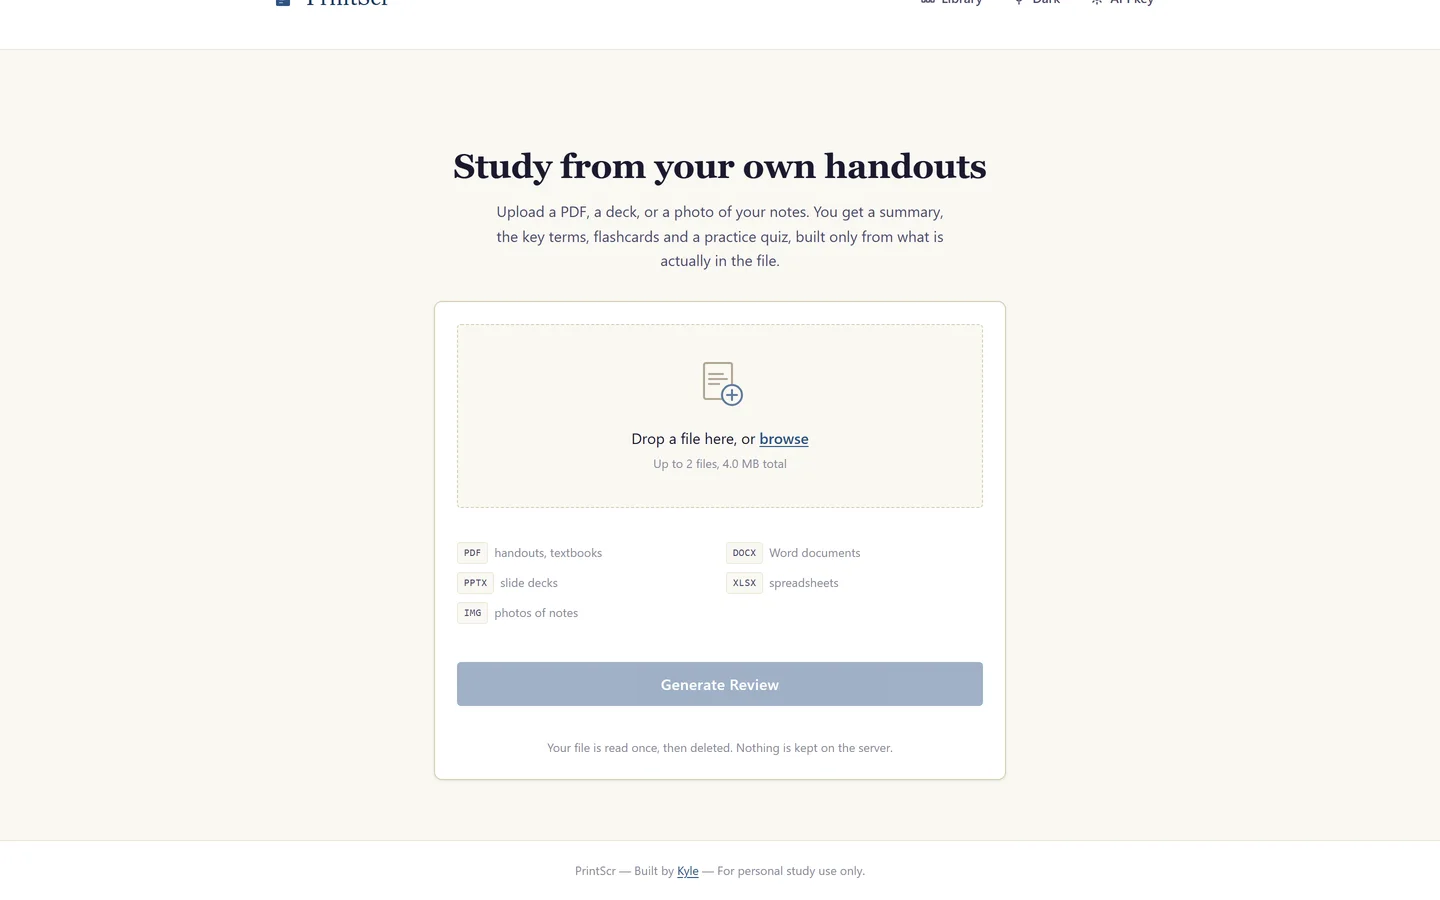
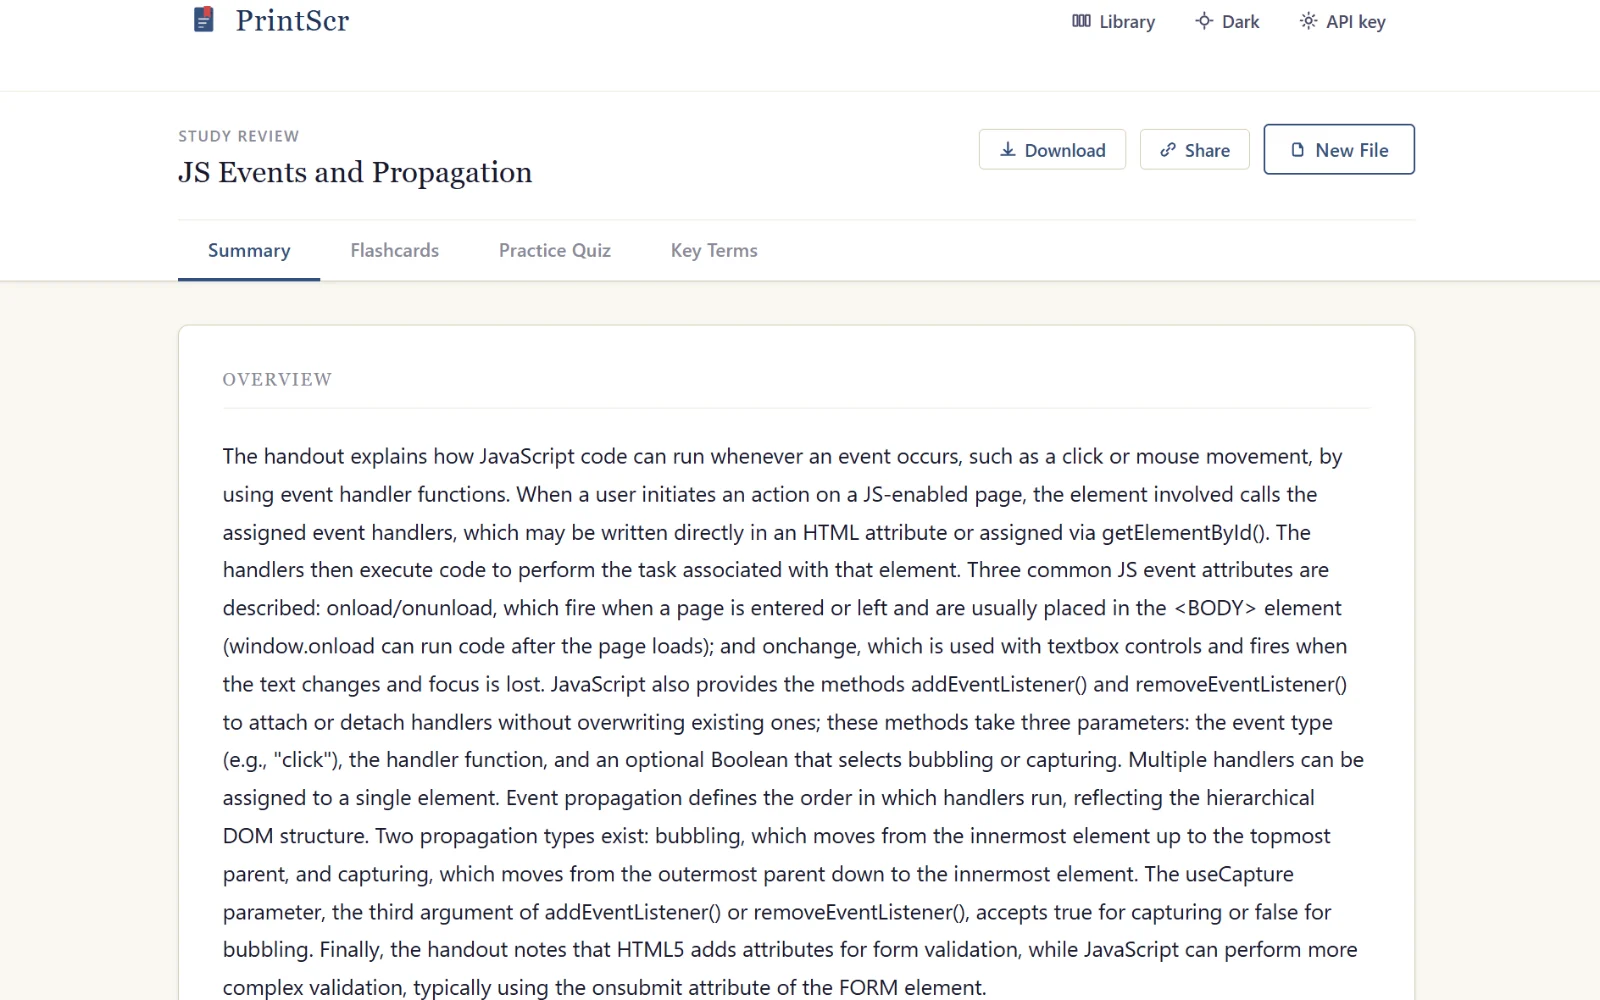
feat: real app screenshots, centered gallery arrows, hover motion
Swap in proper screenshots: Studs now shows four app views (dashboard,
a class, the grade report, creating a class) instead of just the login,
and PrintScr shows the upload, a generated review and the flashcards.
Wide app shots are cropped to the 16:10 frame — left-anchored for Studs so
the sidebar survives, centred for PrintScr.

Move the carousel arrows and counter inside the image stage so they centre
on the picture instead of sitting low, and stop the invisible arrows from
eating clicks meant for the image.

Fix the write-up: the project grid was centre-aligned, so opening the
write-up grew the row and pushed the image down. Align to the top so the
image stays put. Add hover motion across the cards and shots — a small
lift on tool, now and review cards and the shot frames, and a gentle zoom
on the screenshot itself, all disabled under reduced-motion.

diff --git a/index.html b/index.html
@@ -191,11 +191,10 @@
       <article class="proj rise">
         <div class="proj-media"><div class="shotframe" data-gallery>
     <div class="chrome" aria-hidden="true"><span></span><span></span><span></span></div>
-    <div class="shot-stage"><figure class="shot-slide on"><img src="/img/planora-1.webp" width="1440" height="900" alt="Planora landing page" loading="lazy" decoding="async"></figure><figure class="shot-slide"><img src="/img/planora-2.webp" width="1440" height="900" alt="Planora feature overview" loading="lazy" decoding="async"></figure><figure class="shot-slide"><img src="/img/planora-3.webp" width="1440" height="900" alt="Planora app preview" loading="lazy" decoding="async"></figure></div>
-    <button type="button" class="shot-nav prev" data-prev aria-label="Previous image">&lsaquo;</button>
+    <div class="shot-stage"><figure class="shot-slide on"><img src="/img/planora-1.webp" width="1440" height="900" alt="Planora landing page" loading="lazy" decoding="async"></figure><figure class="shot-slide"><img src="/img/planora-2.webp" width="1440" height="900" alt="Planora feature overview" loading="lazy" decoding="async"></figure><figure class="shot-slide"><img src="/img/planora-3.webp" width="1440" height="900" alt="Planora app preview" loading="lazy" decoding="async"></figure><button type="button" class="shot-nav prev" data-prev aria-label="Previous image">&lsaquo;</button>
     <button type="button" class="shot-nav next" data-next aria-label="Next image">&rsaquo;</button>
     <p class="shot-count" data-count>1 / 3</p>
-    <div class="shot-dots"><button type="button" class="shot-dot on" data-dot="0" aria-label="Image 1 of 3"></button><button type="button" class="shot-dot" data-dot="1" aria-label="Image 2 of 3"></button><button type="button" class="shot-dot" data-dot="2" aria-label="Image 3 of 3"></button></div>
+    <div class="shot-dots"><button type="button" class="shot-dot on" data-dot="0" aria-label="Image 1 of 3"></button><button type="button" class="shot-dot" data-dot="1" aria-label="Image 2 of 3"></button><button type="button" class="shot-dot" data-dot="2" aria-label="Image 3 of 3"></button></div></div>
   </div></div>
         <div class="proj-body">
           <div class="proj-head">
@@ -219,11 +218,10 @@
       </article><article class="proj rise">
         <div class="proj-media"><div class="shotframe" data-gallery>
     <div class="chrome" aria-hidden="true"><span></span><span></span><span></span></div>
-    <div class="shot-stage"><figure class="shot-slide on"><img src="/img/printscr-1.webp" width="1440" height="900" alt="PrintScr upload screen" loading="lazy" decoding="async"></figure><figure class="shot-slide"><img src="/img/printscr-2.webp" width="1440" height="900" alt="PrintScr turning a file into a reviewer" loading="lazy" decoding="async"></figure></div>
-    <button type="button" class="shot-nav prev" data-prev aria-label="Previous image">&lsaquo;</button>
+    <div class="shot-stage"><figure class="shot-slide on"><img src="/img/printscr-1.webp" width="1600" height="1000" alt="PrintScr upload screen" loading="lazy" decoding="async"></figure><figure class="shot-slide"><img src="/img/printscr-2.webp" width="1600" height="1000" alt="A generated study review, with the summary open" loading="lazy" decoding="async"></figure><figure class="shot-slide"><img src="/img/printscr-3.webp" width="1600" height="1000" alt="Flashcards generated from the uploaded file" loading="lazy" decoding="async"></figure><button type="button" class="shot-nav prev" data-prev aria-label="Previous image">&lsaquo;</button>
     <button type="button" class="shot-nav next" data-next aria-label="Next image">&rsaquo;</button>
-    <p class="shot-count" data-count>1 / 2</p>
-    <div class="shot-dots"><button type="button" class="shot-dot on" data-dot="0" aria-label="Image 1 of 2"></button><button type="button" class="shot-dot" data-dot="1" aria-label="Image 2 of 2"></button></div>
+    <p class="shot-count" data-count>1 / 3</p>
+    <div class="shot-dots"><button type="button" class="shot-dot on" data-dot="0" aria-label="Image 1 of 3"></button><button type="button" class="shot-dot" data-dot="1" aria-label="Image 2 of 3"></button><button type="button" class="shot-dot" data-dot="2" aria-label="Image 3 of 3"></button></div></div>
   </div></div>
         <div class="proj-body">
           <div class="proj-head">
@@ -245,10 +243,12 @@
           </div>
         </div>
       </article><article class="proj rise">
-        <div class="proj-media"><div class="shotframe">
+        <div class="proj-media"><div class="shotframe" data-gallery>
     <div class="chrome" aria-hidden="true"><span></span><span></span><span></span></div>
-    <div class="shot-stage"><figure class="shot-slide on"><img src="/img/studs-1.webp" width="1440" height="900" alt="Studs running in the browser" loading="lazy" decoding="async"></figure></div>
-    
+    <div class="shot-stage"><figure class="shot-slide on"><img src="/img/studs-1.webp" width="1600" height="1000" alt="The Studs teacher dashboard" loading="lazy" decoding="async"></figure><figure class="shot-slide"><img src="/img/studs-2.webp" width="1600" height="1000" alt="A class overview with its grading settings" loading="lazy" decoding="async"></figure><figure class="shot-slide"><img src="/img/studs-3.webp" width="1600" height="1000" alt="The class grade report" loading="lazy" decoding="async"></figure><figure class="shot-slide"><img src="/img/studs-4.webp" width="1600" height="1000" alt="Creating a class" loading="lazy" decoding="async"></figure><button type="button" class="shot-nav prev" data-prev aria-label="Previous image">&lsaquo;</button>
+    <button type="button" class="shot-nav next" data-next aria-label="Next image">&rsaquo;</button>
+    <p class="shot-count" data-count>1 / 4</p>
+    <div class="shot-dots"><button type="button" class="shot-dot on" data-dot="0" aria-label="Image 1 of 4"></button><button type="button" class="shot-dot" data-dot="1" aria-label="Image 2 of 4"></button><button type="button" class="shot-dot" data-dot="2" aria-label="Image 3 of 4"></button><button type="button" class="shot-dot" data-dot="3" aria-label="Image 4 of 4"></button></div></div>
   </div></div>
         <div class="proj-body">
           <div class="proj-head">
@@ -389,11 +389,10 @@
       web work, and neither is on GitHub yet.</p>
     <div class="tool-shot"><div class="shotframe" data-gallery>
     <div class="chrome" aria-hidden="true"><span></span><span></span><span></span></div>
-    <div class="shot-stage"><figure class="shot-slide on"><img src="/img/cybernant-1.webp" width="1280" height="835" alt="Cybernant running in a terminal, analysing a phone number" loading="lazy" decoding="async"></figure><figure class="shot-slide"><img src="/img/nightshade-1.webp" width="1280" height="784" alt="Nightshade, the offensive counterpart, showing its engagement menu" loading="lazy" decoding="async"></figure></div>
-    <button type="button" class="shot-nav prev" data-prev aria-label="Previous image">&lsaquo;</button>
+    <div class="shot-stage"><figure class="shot-slide on"><img src="/img/cybernant-1.webp" width="1280" height="835" alt="Cybernant running in a terminal, analysing a phone number" loading="lazy" decoding="async"></figure><figure class="shot-slide"><img src="/img/nightshade-1.webp" width="1280" height="784" alt="Nightshade, the offensive counterpart, showing its engagement menu" loading="lazy" decoding="async"></figure><button type="button" class="shot-nav prev" data-prev aria-label="Previous image">&lsaquo;</button>
     <button type="button" class="shot-nav next" data-next aria-label="Next image">&rsaquo;</button>
     <p class="shot-count" data-count>1 / 2</p>
-    <div class="shot-dots"><button type="button" class="shot-dot on" data-dot="0" aria-label="Image 1 of 2"></button><button type="button" class="shot-dot" data-dot="1" aria-label="Image 2 of 2"></button></div>
+    <div class="shot-dots"><button type="button" class="shot-dot on" data-dot="0" aria-label="Image 1 of 2"></button><button type="button" class="shot-dot" data-dot="1" aria-label="Image 2 of 2"></button></div></div>
   </div></div>
     <div class="tools">
       <article class="tool rise">

diff --git a/src/style.css b/src/style.css
@@ -622,7 +622,7 @@ img {
 }
 .shot-nav {
   position: absolute;
-  top: calc(50% + 14px);
+  top: 50%;
   transform: translateY(-50%);
   width: 34px;
   height: 34px;
@@ -637,11 +637,19 @@ img {
   line-height: 1;
   cursor: pointer;
   opacity: 0;
-  transition: opacity 0.2s var(--ease), background 0.2s var(--ease);
+  pointer-events: none;
+  transition:
+    opacity 0.2s var(--ease),
+    background 0.2s var(--ease),
+    transform 0.2s var(--ease);
 }
 .shotframe:hover .shot-nav,
 .shotframe:focus-within .shot-nav {
   opacity: 1;
+  pointer-events: auto;
+}
+.shot-nav:active {
+  transform: translateY(-50%) scale(0.9);
 }
 .shot-nav.prev {
   left: 0.6rem;
@@ -654,7 +662,7 @@ img {
 }
 .shot-count {
   position: absolute;
-  top: calc(0.5rem + 28px);
+  top: 0.6rem;
   right: 0.6rem;
   font-family: var(--f-mono);
   font-size: 11px;
@@ -695,6 +703,57 @@ img {
 .tool-shot {
   margin: 1.4rem auto 0;
   max-width: 640px;
+}
+
+.tool,
+.card,
+.rec {
+  transition:
+    border-color 0.2s var(--ease),
+    transform 0.28s var(--spring),
+    box-shadow 0.28s var(--ease);
+}
+.tool:hover,
+.card:hover,
+.rec:hover {
+  transform: translateY(-2px);
+  border-color: var(--line-2);
+  box-shadow: 0 14px 34px -26px rgb(0 0 0 / 0.7);
+}
+.shotframe {
+  transition:
+    transform 0.3s var(--spring),
+    box-shadow 0.3s var(--ease),
+    border-color 0.2s var(--ease);
+}
+.proj-media:hover .shotframe,
+.tool-shot:hover .shotframe {
+  transform: translateY(-3px);
+  border-color: var(--line-2);
+  box-shadow: 0 20px 44px -26px rgb(0 0 0 / 0.72);
+}
+.shot-slide img {
+  transition: transform 0.5s var(--ease);
+}
+.shotframe:hover .shot-slide.on img {
+  transform: scale(1.035);
+}
+@media (prefers-reduced-motion: reduce) {
+  .tool,
+  .card,
+  .rec,
+  .shotframe,
+  .shot-slide img {
+    transition: none;
+  }
+  .tool:hover,
+  .card:hover,
+  .rec:hover,
+  .proj-media:hover .shotframe,
+  .tool-shot:hover .shotframe,
+  .shotframe:hover .shot-slide.on img {
+    transform: none;
+  }
 }
 
 .lightbox {
@@ -1605,7 +1664,7 @@ html:not(.js) .rot-item {
   .proj {
     grid-template-columns: 1.05fr 1fr;
     gap: 2.25rem;
-    align-items: center;
+    align-items: start;
   }
   .proj:nth-child(even) .proj-media {
     order: 2;

diff --git a/src/data/projects.js b/src/data/projects.js
@@ -44,8 +44,9 @@ export const projects = [
     ],
     kind: "web",
     shots: [
-      { src: "/img/printscr-1.webp", alt: "PrintScr upload screen", width: 1440, height: 900 },
-      { src: "/img/printscr-2.webp", alt: "PrintScr turning a file into a reviewer", width: 1440, height: 900 },
+      { src: "/img/printscr-1.webp", alt: "PrintScr upload screen", width: 1600, height: 1000 },
+      { src: "/img/printscr-2.webp", alt: "A generated study review, with the summary open", width: 1600, height: 1000 },
+      { src: "/img/printscr-3.webp", alt: "Flashcards generated from the uploaded file", width: 1600, height: 1000 },
     ],
     study: {
       problem:
@@ -72,7 +73,10 @@ export const projects = [
     ],
     kind: "web",
     shots: [
-      { src: "/img/studs-1.webp", alt: "Studs running in the browser", width: 1440, height: 900 },
+      { src: "/img/studs-1.webp", alt: "The Studs teacher dashboard", width: 1600, height: 1000 },
+      { src: "/img/studs-2.webp", alt: "A class overview with its grading settings", width: 1600, height: 1000 },
+      { src: "/img/studs-3.webp", alt: "The class grade report", width: 1600, height: 1000 },
+      { src: "/img/studs-4.webp", alt: "Creating a class", width: 1600, height: 1000 },
     ],
     study: {
       problem:
